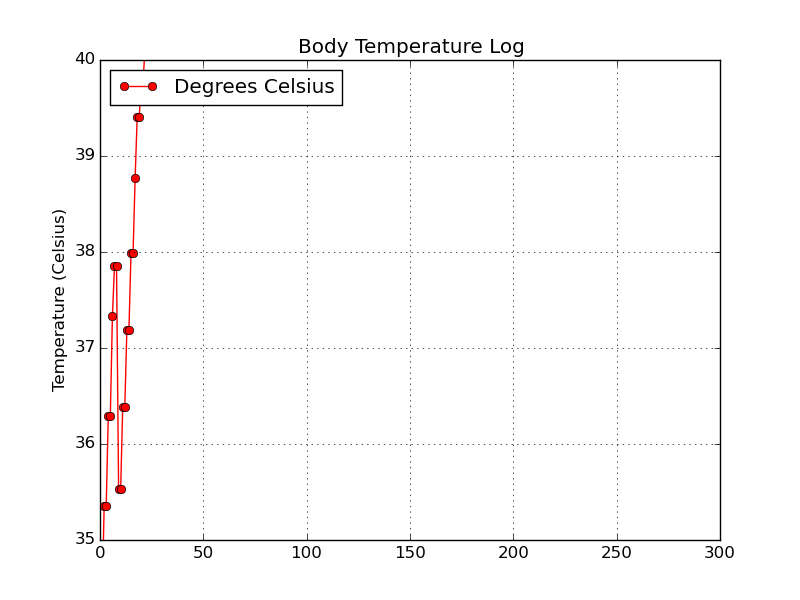
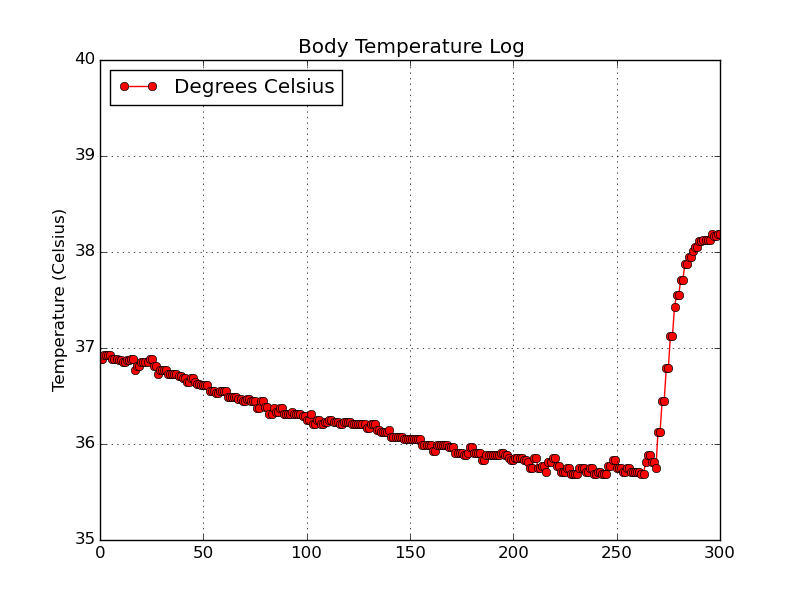
Use debug code

diff --git a/IEGR2.py b/IEGR2.py
@@ -1,0 +1,190 @@
+import math
+import matplotlib.pyplot as plt
+import numpy as np
+import serial
+from pylab import *
+import time
+import datetime
+from time import sleep
+import smtplib
+from email.mime.application import MIMEApplication
+from email.mime.text import MIMEText
+from email.mime.multipart import MIMEMultipart
+
+username = 'CenterAED001KKABA@gmail.com'
+password = 'administrator%^&'
+server = 'smtp.gmail.com:587'
+
+ctime = datetime.datetime.strftime(datetime.datetime.now(),
+                                   '%Y-%m-%d %H:%M:%S')
+
+arduinoData = serial.Serial('/dev/ttyUSB0', 9600)
+counter = 0
+temperature = []
+plt.ion
+
+
+def makeFig():
+    plt.xlim(0, 300)
+    plt.ylim(35, 40)
+    plt.title('Body Temperature Log')
+    plt.grid(True)
+    plt.ylabel('Temperature (Celsius) ')
+    plt.plot(temperature, 'ro-', label='Degrees Celsius')
+    plt.legend(loc='upper left')
+    savefig('signal.png', dpi=100)
+    plt.show()
+    plt.draw()
+
+
+def create_msg(
+    to_address,
+    from_address='',
+    cc_address='',
+    bcc_address='',
+    subject='',
+    ):
+
+    msg = MIMEMultipart()
+    msg['Subject'] = subject
+    msg['To'] = to_address
+    msg['Cc'] = cc_address
+    msg['From'] = from_address
+    return msg
+
+
+def send_email(
+    smtp_address,
+    usr,
+    password,
+    msg,
+    mode,
+    ):
+
+    server = smtplib.SMTP(smtp_address)
+    server.ehlo()
+    server.starttls()
+    server.ehlo()
+    server.login(username, password)
+    if mode == 0 and msg['To'] != '':
+        server.sendmail(msg['From'], (msg['To'] + msg['Cc']).split(','
+                        ), msg.as_string())
+    elif mode == 1 and msg['Bcc'] != '':
+        server.sendmail(msg['From'], msg['Bcc'].split(','),
+                        msg.as_string())
+    elif mode != 0 and mode != 1:
+        print 'error in send mail bcc'
+        print 'email cancled'
+        exit()
+    server.quit()
+
+
+def compose_email(
+    addresses,
+    subject,
+    body,
+    files,
+    ):
+
+    # addresses
+
+    to_address = addresses[0]
+    cc_address = addresses[1]
+    bcc_address = addresses[2]
+
+    msg = create_msg(to_address, cc_address=cc_address, subject=subject)
+
+    for text in body:
+        attach_text(msg, text[0], text[1])
+
+    if files != '':
+        file_list = files.split(',')
+        for afile in file_list:
+            attach_file(msg, afile)
+
+    send_email(server, username, password, msg, 0)
+
+    if bcc_address != '':
+        msg['Bcc'] = bcc_address
+        send_email(server, username, password, msg, 1)
+
+    print 'email sent'
+
+
+def attach_text(msg, atext, mode):
+    part = MIMEText(atext, get_mode(mode))
+    msg.attach(part)
+
+
+def get_mode(mode):
+    if mode == 0:
+        mode = 'plain'
+    elif mode == 1:
+        mode = 'html'
+    else:
+        print 'error in text kind'
+        print 'email cancled'
+        exit()
+    return mode
+
+
+def attach_file(msg, afile):
+    part = MIMEApplication(open(afile, 'rb').read())
+    part.add_header('Content-Disposition', 'attachment', filename=afile)
+    msg.attach(part)
+
+
+def tempMsg(a, condition, time):
+    msg = 'As of %s your body temperature was %s Celsius, which is %s'\
+        % (ctime, averageT, condition)
+    str(msg)
+    global msg
+    return msg
+
+
+while True:
+	counter += 1
+	currentlog = 0.0891*(math.log(counter))+36.621
+	
+	data = float(arduinoData.readline().rstrip('\r\n'))
+	if counter > 300:
+		if((data < (currentlog + 1.5)) and (data > (currentlog - 1.5))):
+			print 'Data Valid'
+			print currentlog
+			print data
+			print ' '
+			temperature.append(data)
+			if(len(temperature) > 300):
+				averageT = np.mean(temperature)
+				print averageT
+				if averageT < 38 and averageT > 36:
+					condition = 'normal'
+					print condition
+					makeFig()
+					#break
+				elif averageT > 38 and averageT < 39:
+					condition = 'low fever'
+					print condition
+					makeFig()
+					#break
+				elif averageT > 39:
+					condition = 'high fever'
+					print condition
+					makeFig()
+					#break
+				tempMsg(averageT, condition, time)
+				compose_email(['jameswang1279@gmail.com', '', ''], 'Healthcare Monitoring System Data Report',[[msg, 0]], 'signal.png')
+		
+				break
+		else:
+			print 'Data Invalid'
+			print currentlog
+			print data
+			print ' '
+	       
+	
+
+
+
+
+
